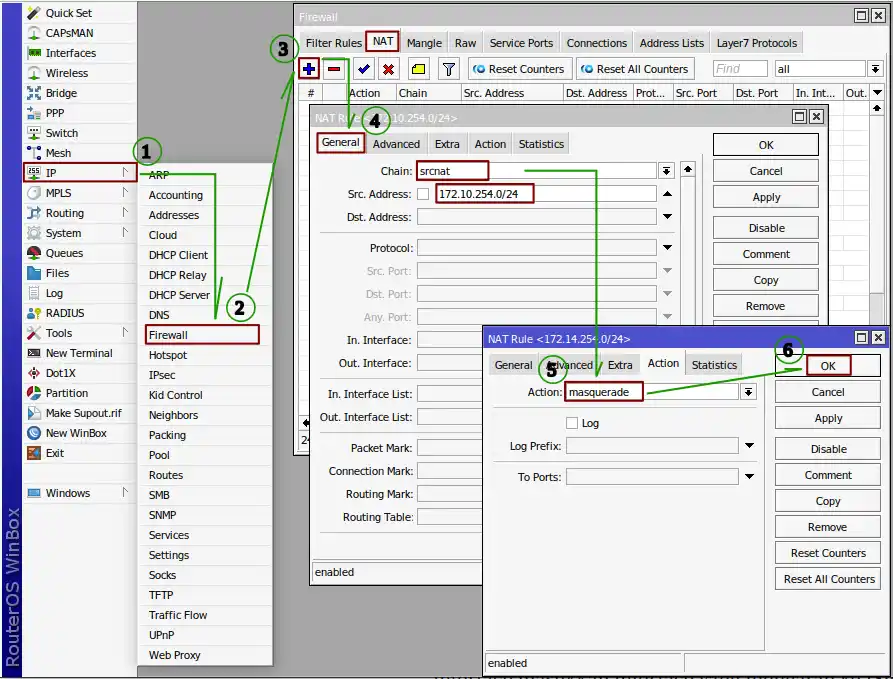
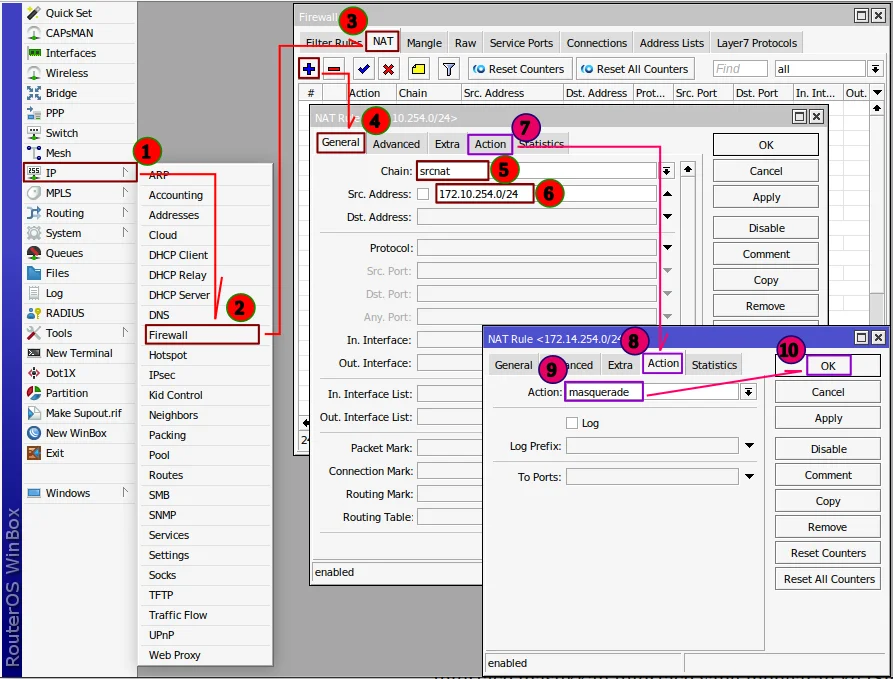
content doc image astro cnf mjs

Changed region(s): [[0.514, 0.1546, 0.9675, 0.6186], [0.1512, 0.0, 0.4535, 0.4948]]

diff --git a/src/content/docs/network/mikrotik.md b/src/content/docs/network/mikrotik.md
@@ -3,31 +3,38 @@ title: Setup Mikrotik
 description: tutorial setting firewall mikrotik
 ---
 
-:::tip[Konfigurasi Dasar Mikrotik]
-Langkah Konfigurasi:
+:::tip[Konfigurasi Dasar Jaringan]
+Konfigurasi MikroTik menggunakan WinBox:
 :::
 
-###### ```1. Menambahkan dhcp client```
+###### ```1. Menambahkan DHCP client```
 > 
-> Pertama-tama tambahkan dulu ***dhcp client***-nya agar ada koneksi internet, yaitu dengan cara ke menu **IP -> DHCP Client** -> Lalu interfacenya diisi **ether 5**.
-> 
+> DHCP (Dynamic Host Configuration Protocol) berfungsi berfungsi dalam memastikan supaya perangkat yang terhubung di sebuah jaringan memperoleh alamat IP sesuai dengan yang diberikan server atau sumber internet, yaitu dengan cara ke menu:
+>
+> ```IP -> DHCP Client -> interface -> ether1 -> Apply/OK```
+> - **ether1** disini sebagai suber masuk Internet.
+>
 > ![lynis](/images/mikrotik/gambar1.webp "lynis")
 > 
-> Jika sudah pastikan di bagian status itu **Bound**,
+> - Jika sudah pastikan di bagian status itu ***Bound***.
 >
 ###### ```2. Menambahkan IP Address```
 > 
-> Untuk GUI klik menu **IP -> Addresses -> +** , kemudian masukkan IP address untuk ke internet (public). Ether5.
+> Fungsi dari IP Address yang paling utama adalah menangani koneksi antar perangkat pengirim dan penerima melalui sebuah jaringan. IP Address ini adalah sebuah alamat yang mengidentifikasi perangkat di internet.
+>
+> ```IP -> Addresses -> Addresses List``` klik ```( + ) -> Address```, isikan IP address ```-> Interface ->``` pilih ```ether5 -> Apply/OK```
+>
+> - **ether5** untuk internet keluar (public).
 > 
 > ![lynis](/images/mikrotik/gambar2.webp "lynis")
 > 
 ###### ```3. Konfigurasi DNS```
 > 
-> Selanjutnya kita akan mengatur DNS , DNS adalah singkatan dari Domain Name Server , yang berfungsi untuk pemetaan alamat IP menjadi sebuah nama atau sebaliknya. Sebagai contoh ketika kalian browsing , apakah kalian pernah mengetikkan IP dari server website tersebut ?? contoh ketika mengakses google , kalian pasti selalu mengetikkan www.google.com atau google.com saja kan.
-> 
-> Dan sebagian dari kalian mungkin tidak tahu berapa alamat IP dari google. Nah itulah fungsi dari DNS yang mengubah alamat IP menjadi sebuah nama , jadi kita akan lebih mudah mengakses Website di Internet. Untuk konfigurasi DNS di Mikrotik caranya cukup mudah , kita hanya perlu memasukkan alamat IP dari DNS Server, kita bisa menggunakan DNS dari ISP atau juga bisa menggunakan DNS google (8.8.8.8 / 8.8.4.4).
-> 
-> Untuk mode GUI kita klik menu **IP -> DNS** lalu centang bagian Allow-remote-request.
+>Konfigurasi DNS digunakan untuk menyediakan resolusi nama domain untuk router maupun perangakat klien yang terhubung dengannya atau mikrotik itu sendiri.
+>
+>kita hanya perlu memasukkan alamat IP dari DNS Server, atau bisa menggunakan DNS dari ISP dan juga bisa menggunakan DNS google (8.8.8.8 / 8.8.4.4).
+>
+> Pilih menu ```IP -> DNS ->``` pada bagian ```DNS Settings ->``` isikan DNS pada, ```Servers ->``` lalu centang bagian ```Allow-remote-request -> Apply/OK```
 > 
 > ![lynis](/images/mikrotik/gambar3.webp "lynis")
 >
@@ -37,31 +44,28 @@ Langkah Konfigurasi:
 >
 ###### ```4. DHCP Server```
 > 
-> Apa gunanya dhcp server? Yaitu untuk memberikan alamat ip secara otomatis.
-> 
-> Untuk GUI nya bisa ke **IP -> DHCP Server** lalu pilih **DHCP Setup** kemudian pilih interface yang terhubung ke pc/laptop. Next-Next sampai selesai.
+> DHCP merupakan service yang memiliki fungsi utama mendistribusikan IP Address secara otomatis kepada setiap client yang terhubung dengan jaringan.
+>
+> ```IP -> DHCP Server ->``` tab ```DHCP``` klik ```( + ) -> DHCP Setup ->``` kemudian ```DHCP Server Interface ->``` pilih ```ether5 -> Next-Next ->``` sampai selesai kemudian ```OK```
+>
+> **ether5** disini sebagai sumber internet keluar (public) yang terhubung ke pc/laptop.
 >
 > ![lynis](/images/mikrotik/gambar5.webp "lynis")
 > 
 ###### ```5. Konfigurasi NAT```
 > 
-> Sekarang router kita sudah bisa terhubung ke internet. Nah untuk membuat PC client juga bisa melakukan koneksi Internet maka dibutuhkan yang Namanya NAT atau Network Address Translation.
-> 
-> NAT ini berfungsi untuk menerjemahkan/menyamarkan alamat IP Lokal kita menjadi alamat IP Public kita. Coba bayangin berapa banyak jaringan lokal yang memiliki IP Private sama seperti kita , jika kita tidak translate ke IP public maka website akan susah merespons permintaan karena banyaknya alamat IP lokal yang sama. Maka dari itu NAT sangat dibutuhkan di jaringan Internet.
-> 
-> Untuk mode GUI kita klik menu **IP -> Firewall -> NAT -> +**
-> 
-> Setelah itu masukkan isikan bagian ***Chain*** dan ***Scr.Address***.
-> 
-> Jangan lupa di tab ***action***, isikan dengan action = **masquerade**
-> 
+> Network Address Translation (NAT) adalah sebuah proses pemetaan alamat IP dimana perangkat jaringan akan memberikan alamat IP Public ke perangkat jaringan local, sehingga banyak IP Private yang dapat mengakses IP Public.
+>
+> Pilih menu ```IP -> Firewall ->``` pada tab ```NAT ->``` klik ```( + ) ->``` tab ```General ->``` Chain isikan= ```srcnat ->``` Scr.Address isikan ```IP Address ->``` seperti pada no.2 diatas, kemudian tab ```Action ->``` Action isikan= ```masquerade -> Apply/OK```
+>
 > ![lynis](/images/mikrotik/gambar6.webp "lynis")
 > 
-> Jika belum terhubung ke internet untuk windows pergi ke ***Open Network and Sharing Center*** lalu ke ***Change Adapter Settings***. dan masuk ke ***Setting*** lalu ***Network***.
+> Jika komputer belum terhubung ke internet, lakukan hal berikut:
+>
+> Untuk ```Windows``` pergi ke-```Open Network and Sharing Center -> Change Adapter Settings ->```
+> Disable lalu Enable bagian ```Local Area Connection``` dan untuk ```Linux``` pergi ke-```Setting -> Network ->``` Disable lalu Enable pada ```Wired connection```
 > 
 > ![lynis](/images/mikrotik/gambar7.webp "lynis")
-> 
-> Disable lalu Enable bagian Local Area Connection atau Ether Network.
 > 
 
 ###### Firewall
